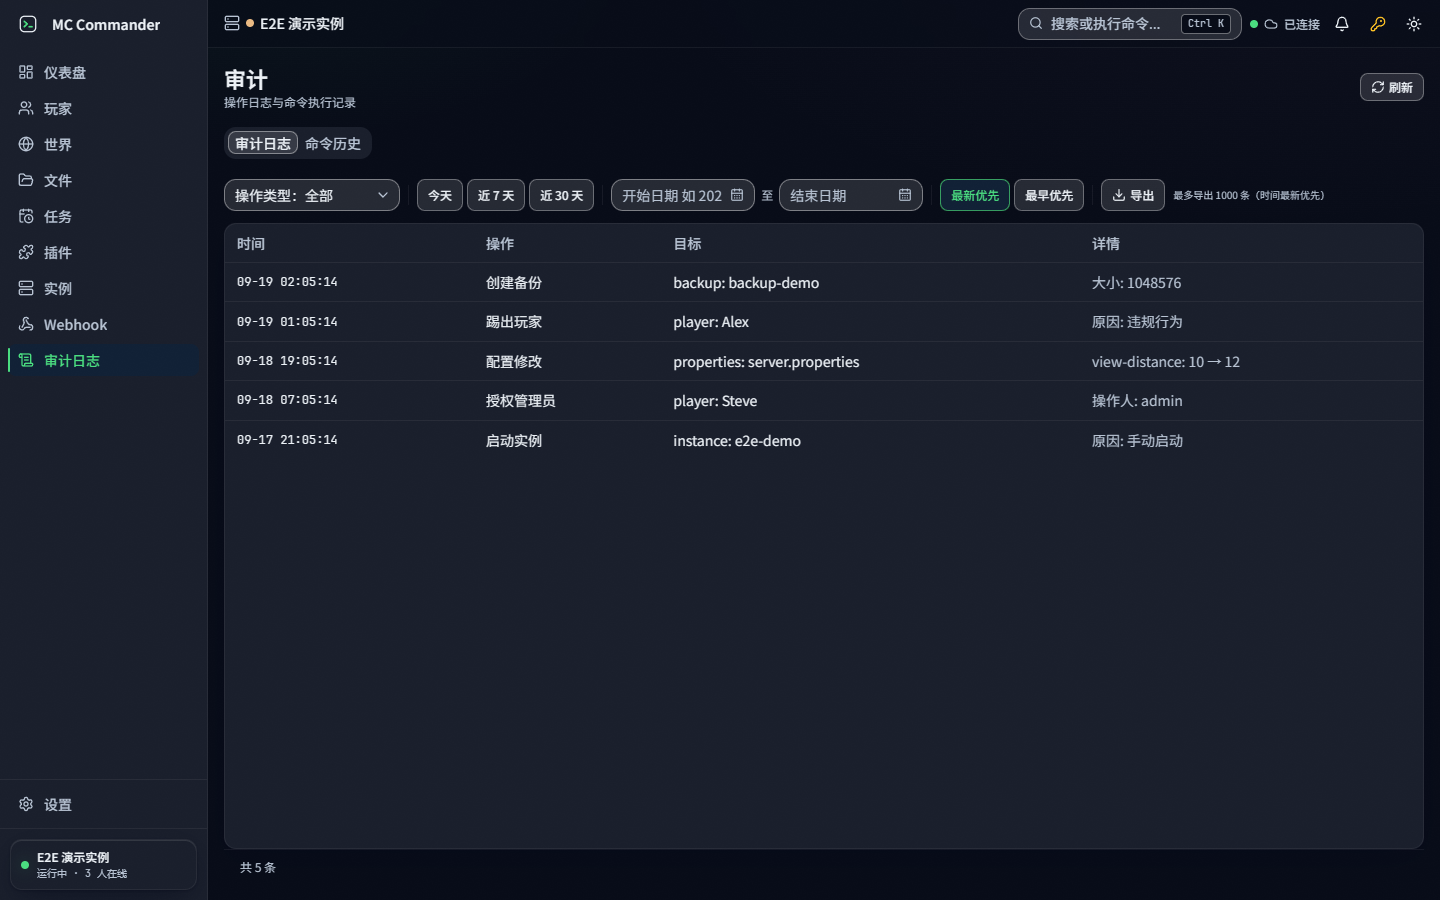
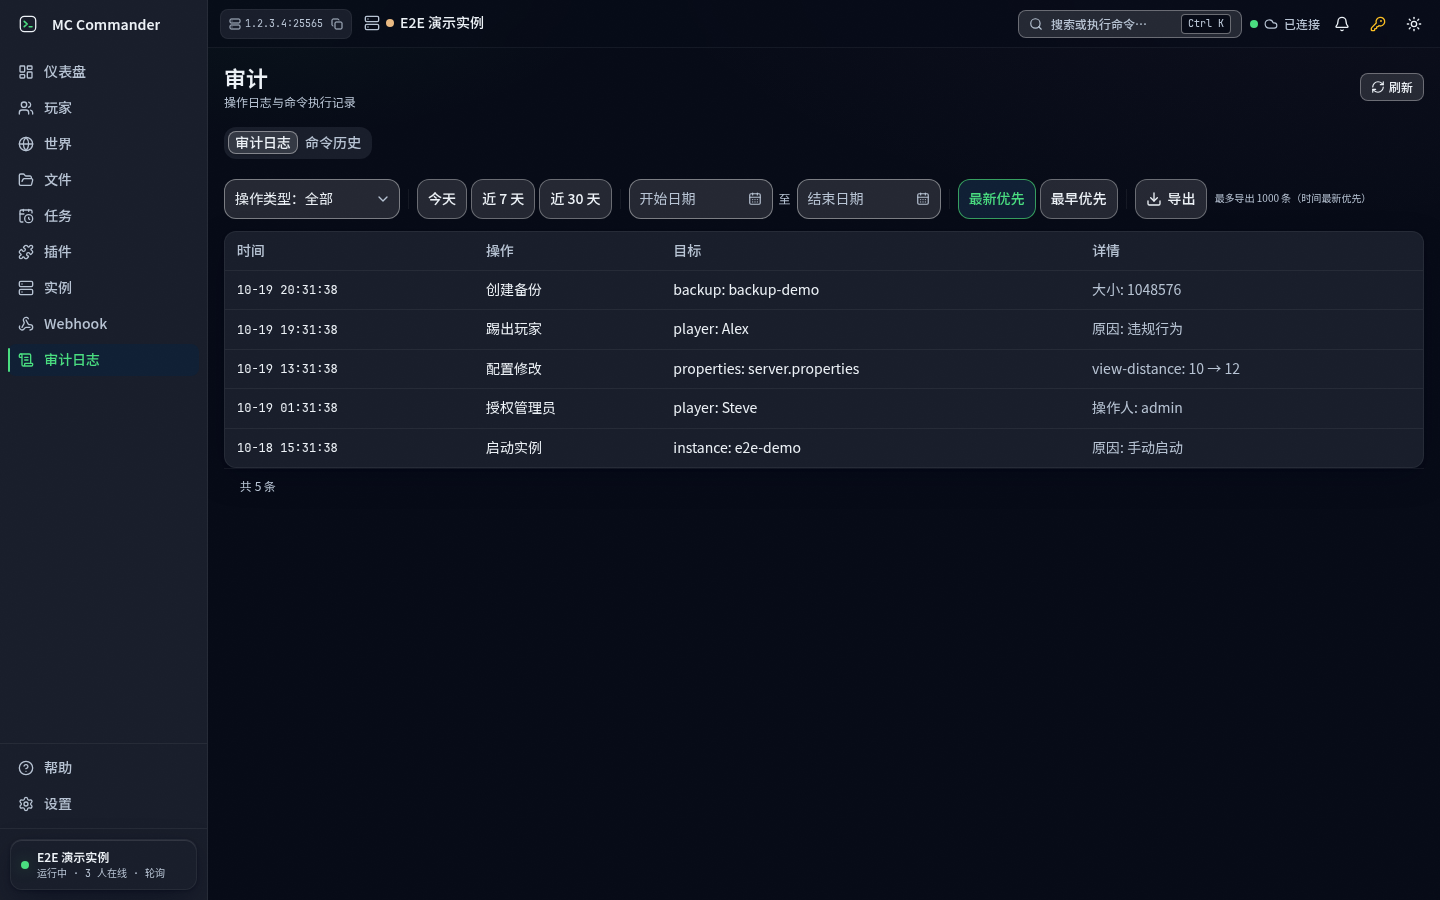
docs(readme): 版本徽章改读最新 Release，并重拍产品截图
- 版本徽章改走 shields 的 github/v/release。静态 badge 路径缺颜色段（`version-0.8.5`）时
  shields 返回 404 图而 HTTP 仍是 200，浏览器照常渲染成「badge not found」
- release-please 的 extra-files 移除 README：徽章不再写版本号，不需要占位标记
- 11 张产品截图按当前界面重拍；「设置」一格原为备份管理页，改拍通用设置页

diff --git a/README.md b/README.md
@@ -1,6 +1,6 @@
 <p align="center">
   <img src="https://img.shields.io/github/actions/workflow/status/wyyfzb/mc-commander/ci.yml?branch=main&style=flat-square&label=CI" alt="CI">
-  <img src="https://img.shields.io/badge/version-0.8.5?style=flat-square" alt="Version"> <!-- x-release-please-version -->
+  <img src="https://img.shields.io/github/v/release/wyyfzb/mc-commander?style=flat-square&label=version&color=blue" alt="Version">
   <img src="https://img.shields.io/badge/license-AGPL--3.0-green?style=flat-square" alt="License">
 </p>
 
